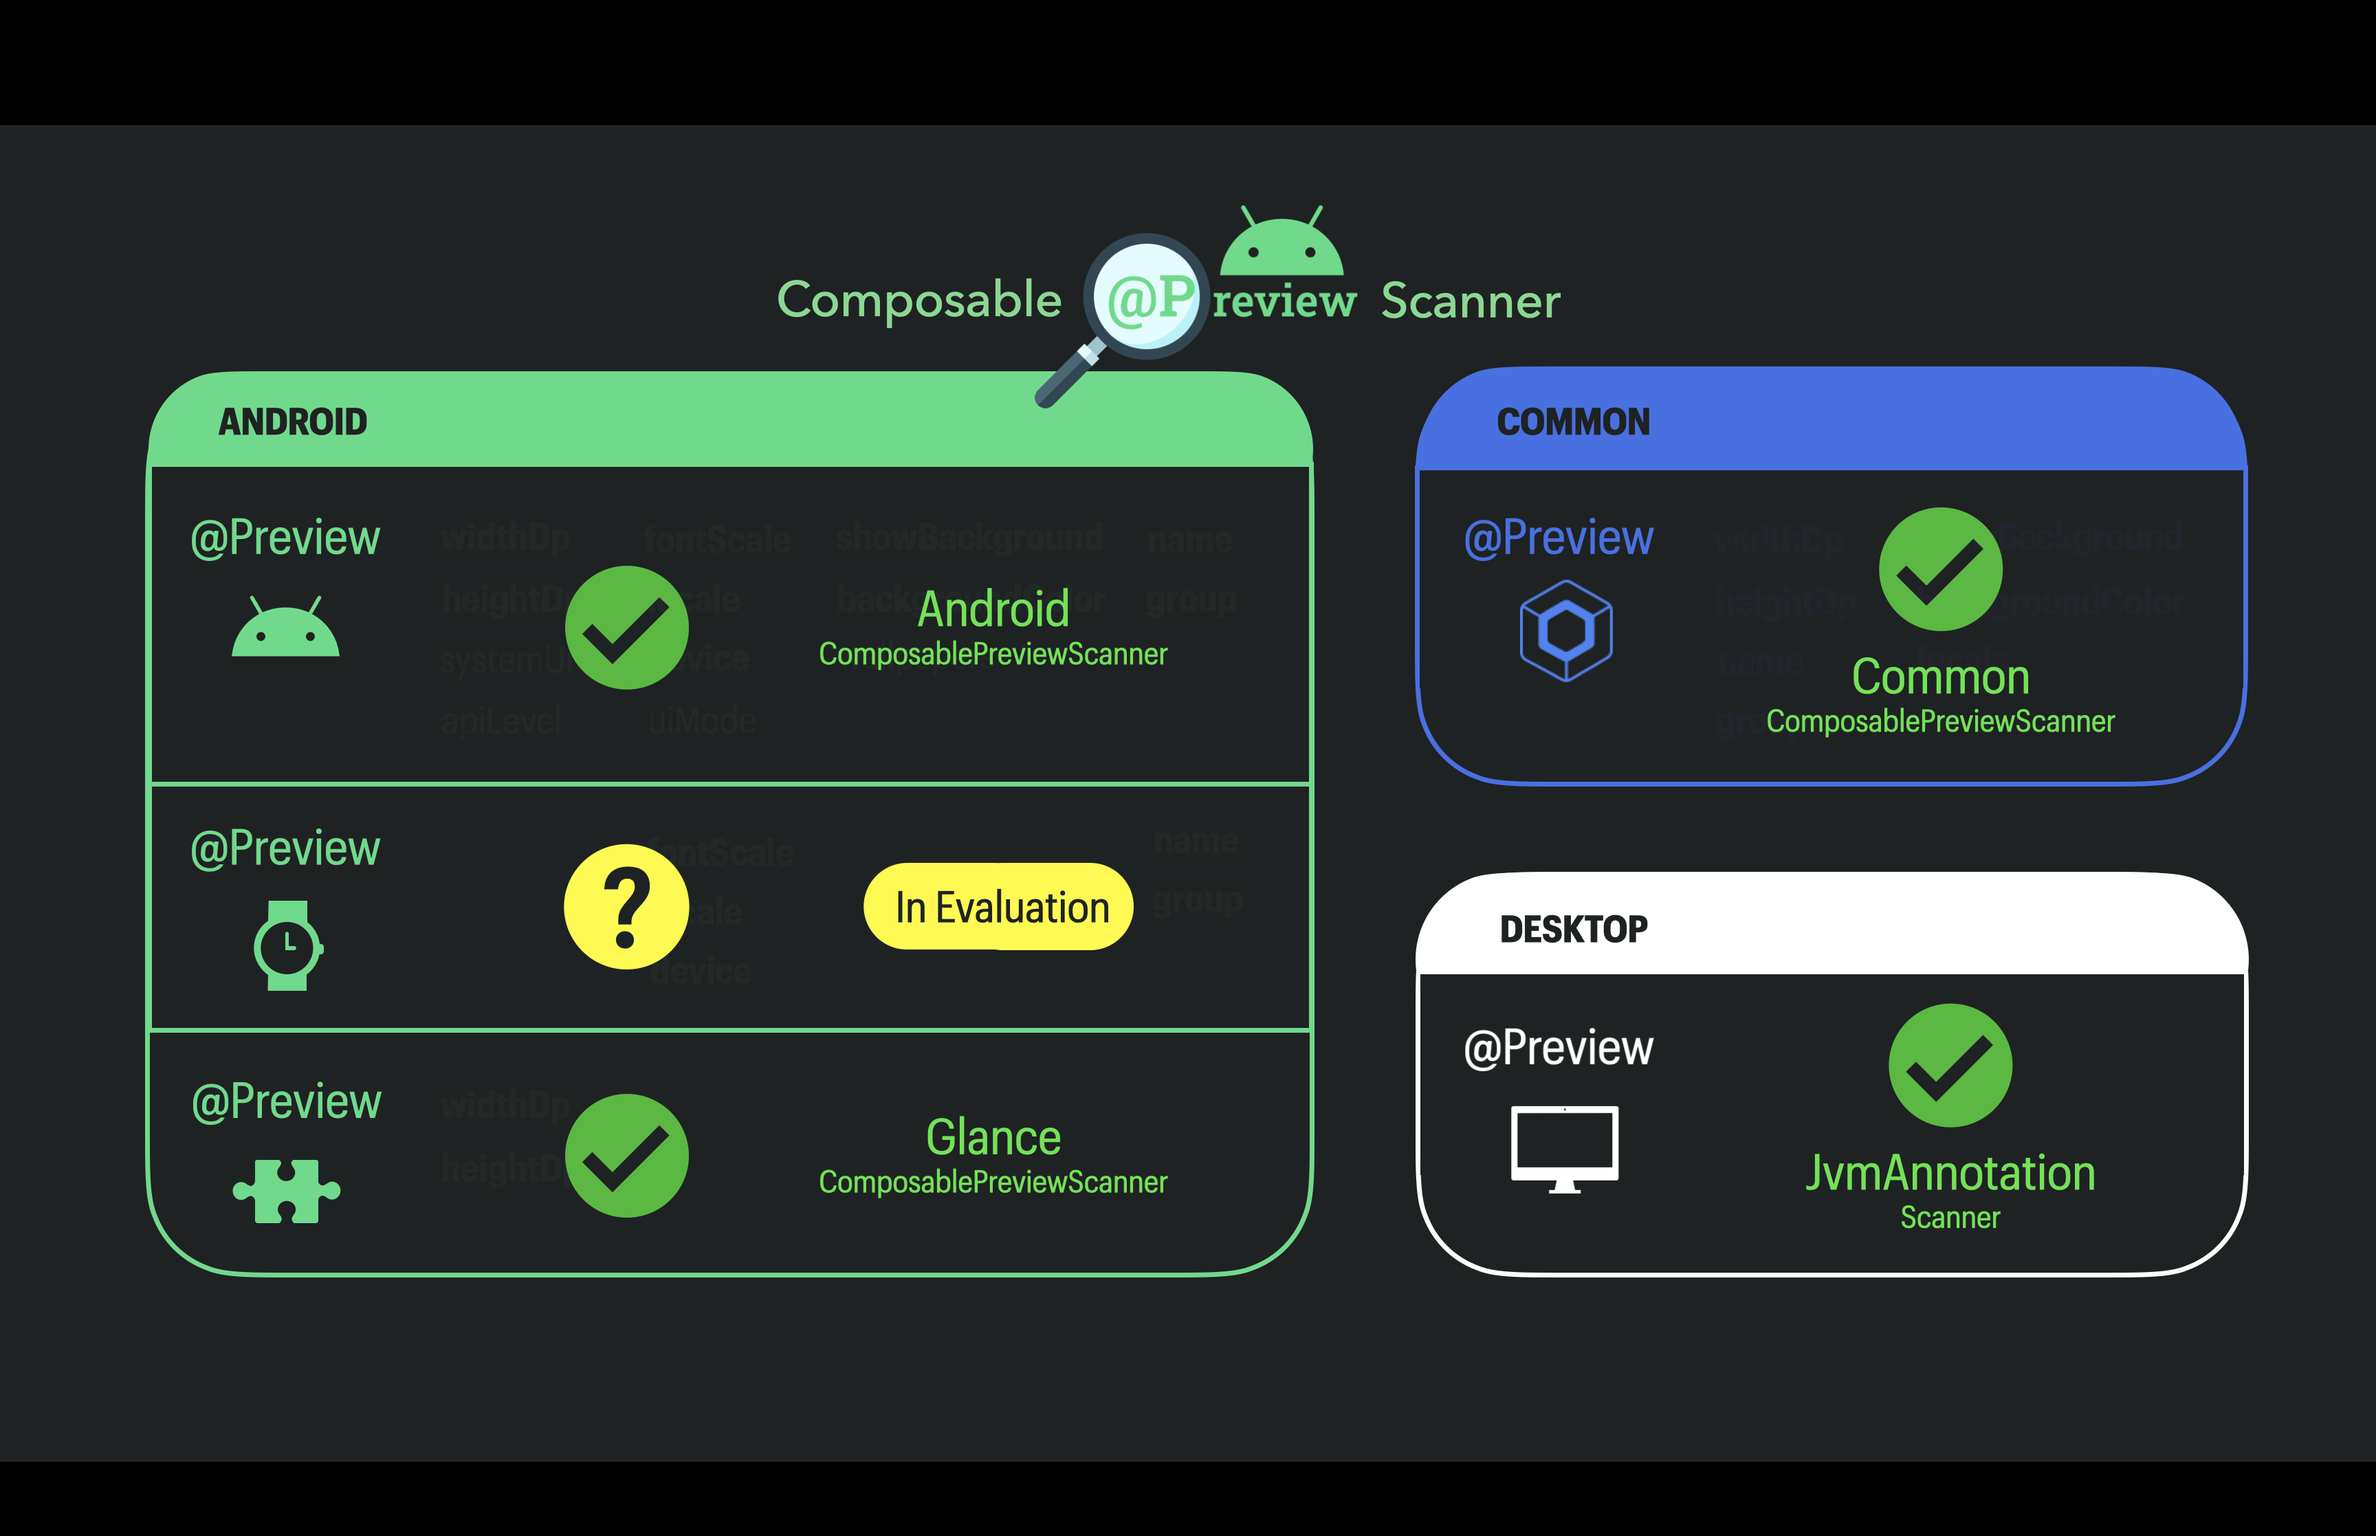
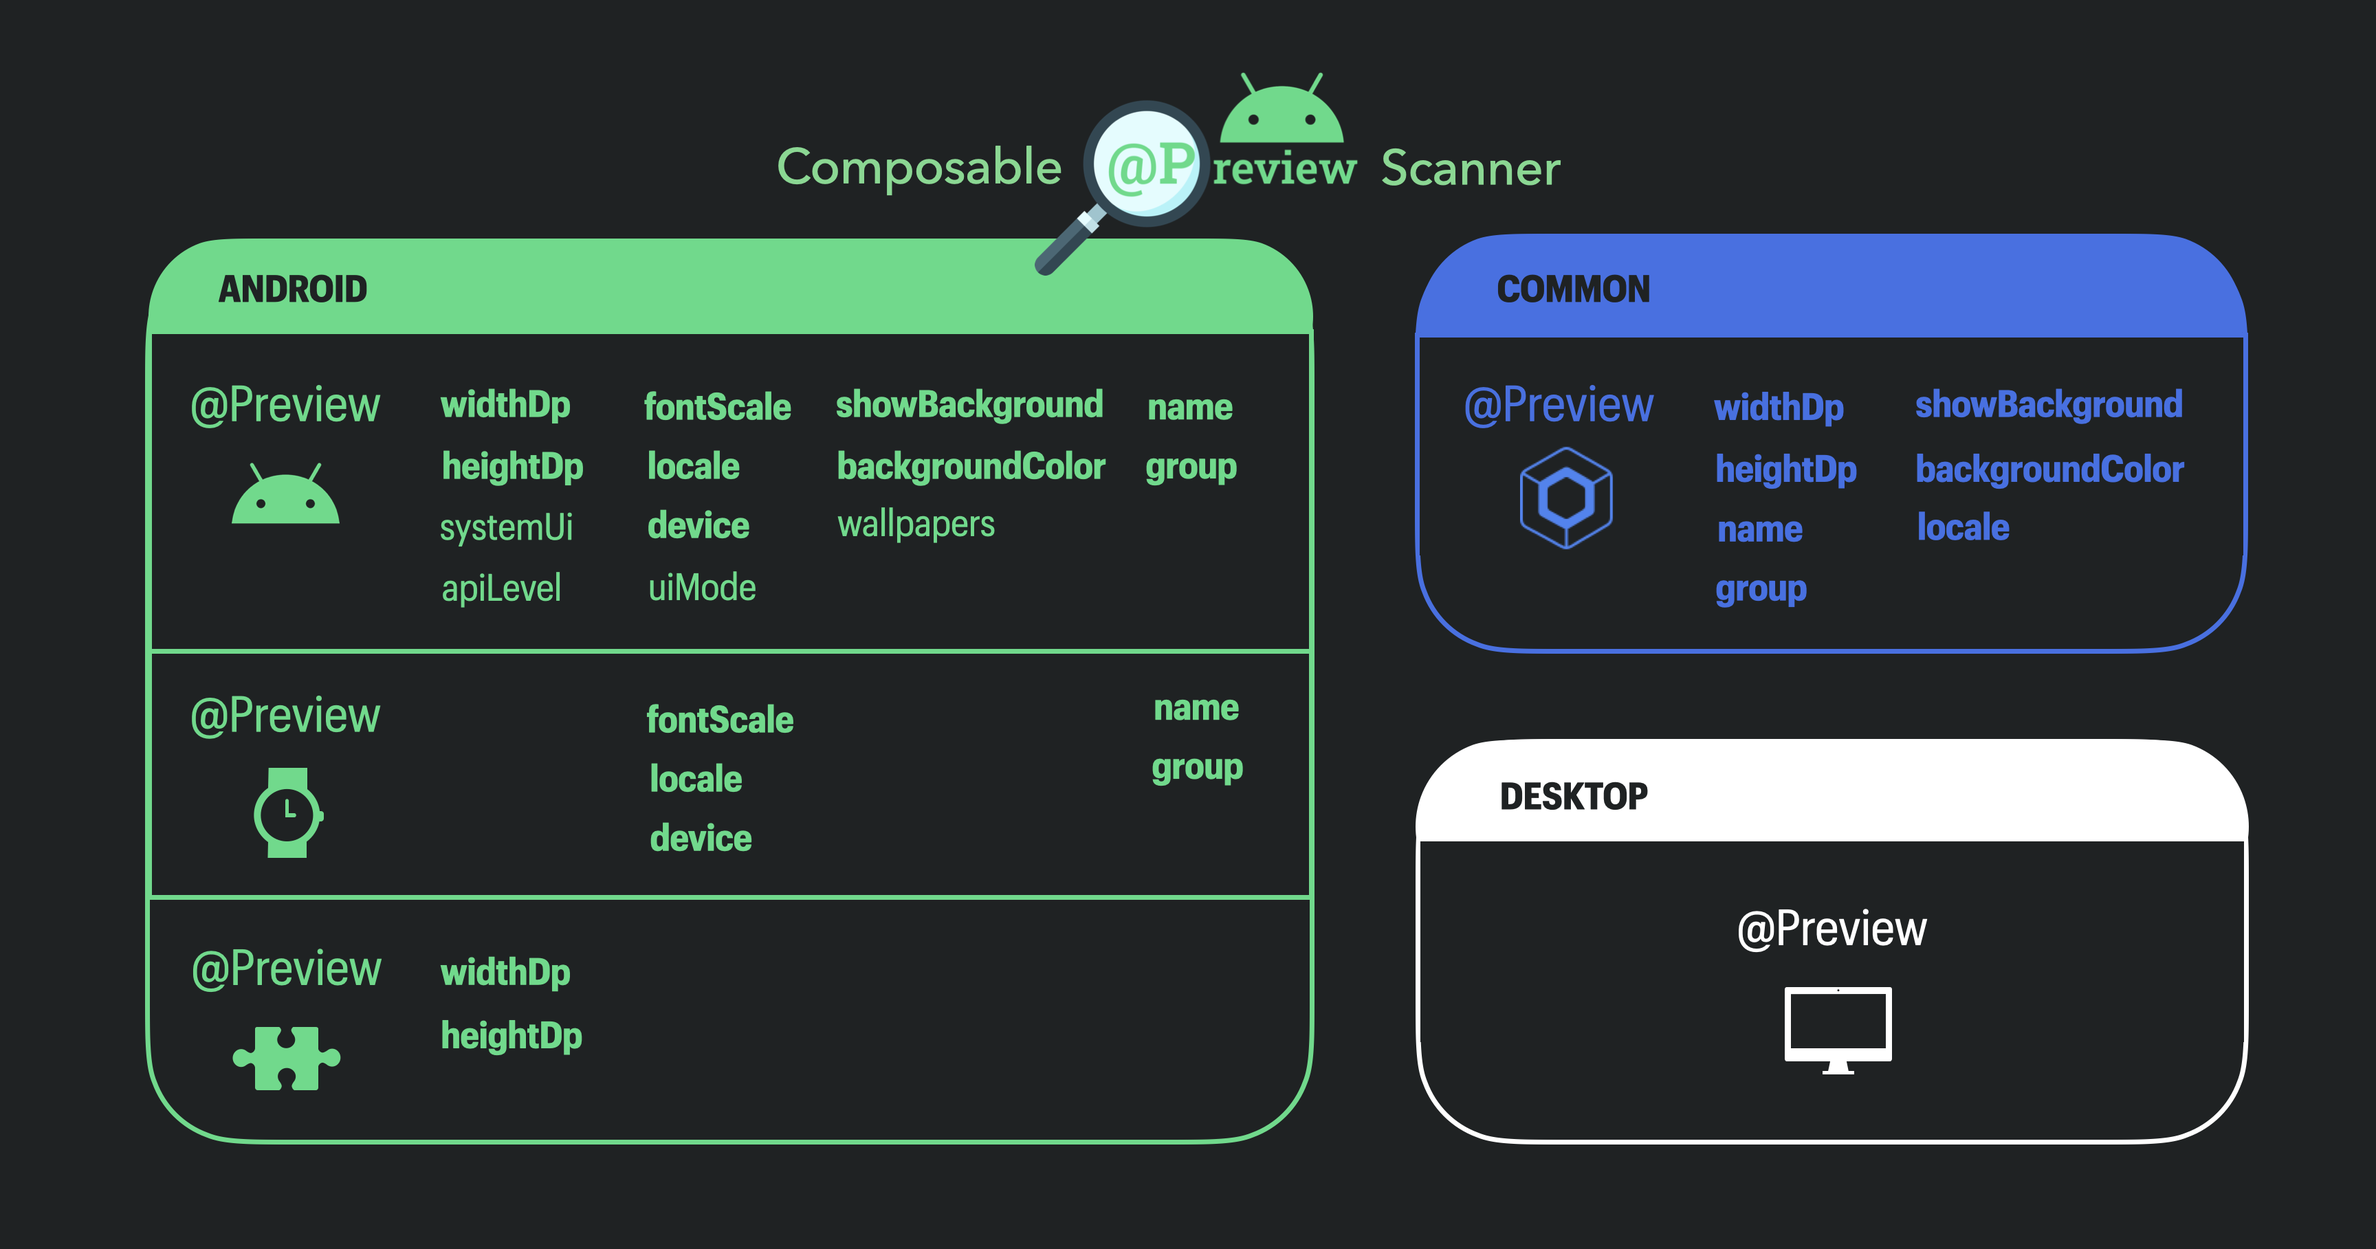
Update image of supported previews + readme

diff --git a/README.md b/README.md
@@ -16,7 +16,9 @@
 A library to help auto-generate screenshot tests from Composable Previews (e.g. **Android** & **Compose Multiplatform**) with any screenshot testing library:
 JVM-based (i.e. Paparazzi, Roborazzi) as well as Instrumentation-based (i.e. Shot, Dropshots, Android-Testify, etc.)
 
-![composable_preview_scanner_overview.png](composable_preview_scanner_overview.png)
+![composable_preview_scanner_overview.png](composable_preview_scanner_overview2.png)
+> [!NOTE]
+> Support for Wear OS Tile `@Previews` is in evaluation
 
 #### Provide anonymous feedback
 Already using ComposablePreviewScanner?</br>
@@ -814,10 +816,9 @@ To write such screenshot tests you have to:
 ### Common Previews
 You can find executable examples here:
 - [Roborazzi](https://github.com/sergio-sastre/ComposablePreviewScanner/blob/master/tests/src/test/java/sergio/sastre/composable/preview/scanner/tests/roborazzi/RoborazziCommonComposablePreviewInvokeTests.kt)
-- [Roborazi via its gradle plugin](https://github.com/sergio-sastre/roborazzi/tree/droidcon/preview_tests/sample-generate-preview-tests-multiplatform).
-- [Paparazzi](https://github.com/sergio-sastre/ComposablePreviewScanner/blob/master/tests/src/test/java/sergio/sastre/composable/preview/scanner/tests/paparazzi/PaparazziCommonComposablePreviewInvokeTests.kt).</br></br>
+- [Roborazi via its gradle plugin](https://github.com/sergio-sastre/roborazzi/tree/droidcon/preview_tests/sample-generate-preview-tests-multiplatform)
 
-Instrumentation-based screenshot testing libraries are also supported and examples are coming soon.</br></br>
+Executable examples  with Paparazzi & Instrumentation-based screenshot testing libraries are coming soon.</br></br>
 
 Since Compose Multiplatform 1.6.0, Jetbrains has added support for `@Preview`s in `common`. ComposablePreviewScanner can also
 scan such Previews when running on any jvm-target, like
